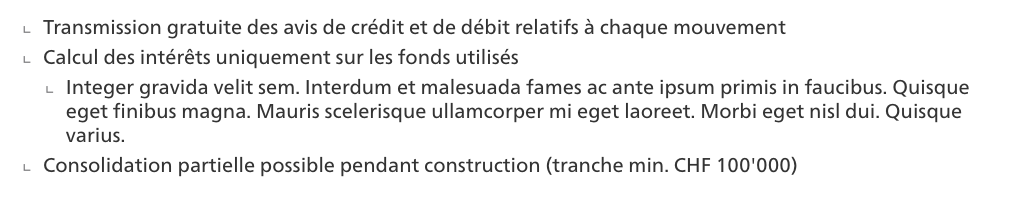
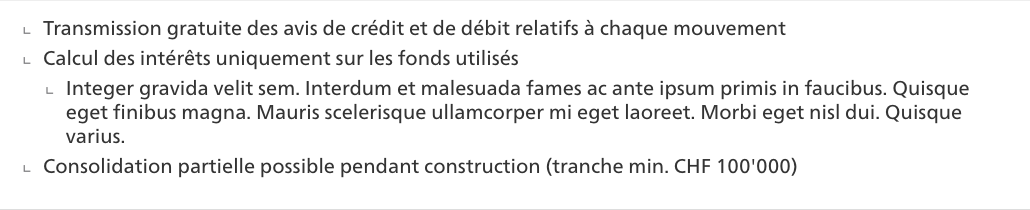
update list component

diff --git a/assets/sass/atoms/_list.scss b/assets/sass/atoms/_list.scss
@@ -9,16 +9,16 @@
 /* stylelint-disable no-duplicate-selectors */
 /* Make the code unreadable otherwise */
 
-ul.unstyled-list,
-ol.unstyled-list {
+.unstyled-list,
+.unstyled-list {
   list-style: none;
   padding-left: 0.5em;
 }
 
-ul.unordered-list,
-ol.ordered-list,
-ul.treeview-list,
-ul.facets-list {
+.unordered-list,
+.ordered-list,
+.treeview-list,
+.facets-list {
   padding: 0;
 
   > li {
@@ -26,9 +26,9 @@ ul.facets-list {
   }
 }
 
-ul.treeview-list,
-ul.unordered-list,
-ul.facets-list {
+.treeview-list,
+.unordered-list,
+.facets-list {
   list-style: none;
   margin-left: 0;
 
@@ -56,7 +56,7 @@ ul.facets-list {
   }
 }
 
-ul.treeview-list {
+.treeview-list {
   margin-left: $grid-gutter-width / 2;
 
   > li {
@@ -71,7 +71,7 @@ ul.treeview-list {
   }
 }
 
-ul.facets-list {
+.facets-list {
   > li {
     &:before {
       content: '→'; // →
@@ -82,7 +82,7 @@ ul.facets-list {
   }
 }
 
-ol.ordered-list {
+.ordered-list {
   list-style: none;
   counter-reset: item;
   margin-left: $grid-gutter-width / 2;
@@ -106,8 +106,8 @@ ol.ordered-list {
   }
 }
 
-ul.filters-list,
-ol.filters-list {
+.filters-list,
+.filters-list {
   list-style: none;
   padding-left: 0.5em;
 
@@ -143,7 +143,7 @@ ol.filters-list {
 }
 
 @each $label, $color in $themes {
-  ul.filters-list > li.active {
+  .filters-list > li.active {
     .retraitespopulaires-icon.text-#{$label} {
       color: $color;
 

diff --git a/assets/sass/styleguide.scss b/assets/sass/styleguide.scss
@@ -92,7 +92,7 @@
 
 .styleguide-item-group > .styleguide-item-group {
   padding-bottom: 0;
-  border: 1px solid;
+  border: 1px solid #ddd;
 
   .styleguide-item-heading-group {
     margin: 0;
@@ -121,9 +121,17 @@
   }
 
   .styleguide-item-code {
+    margin-top: 0;
+
     .language-markup {
       margin: 0;
     }
+  }
+
+  pre[class*='language-'] {
+    border-radius: 0;
+    border: none;
+    border-top: 1px solid #ddd;
   }
 }
 
